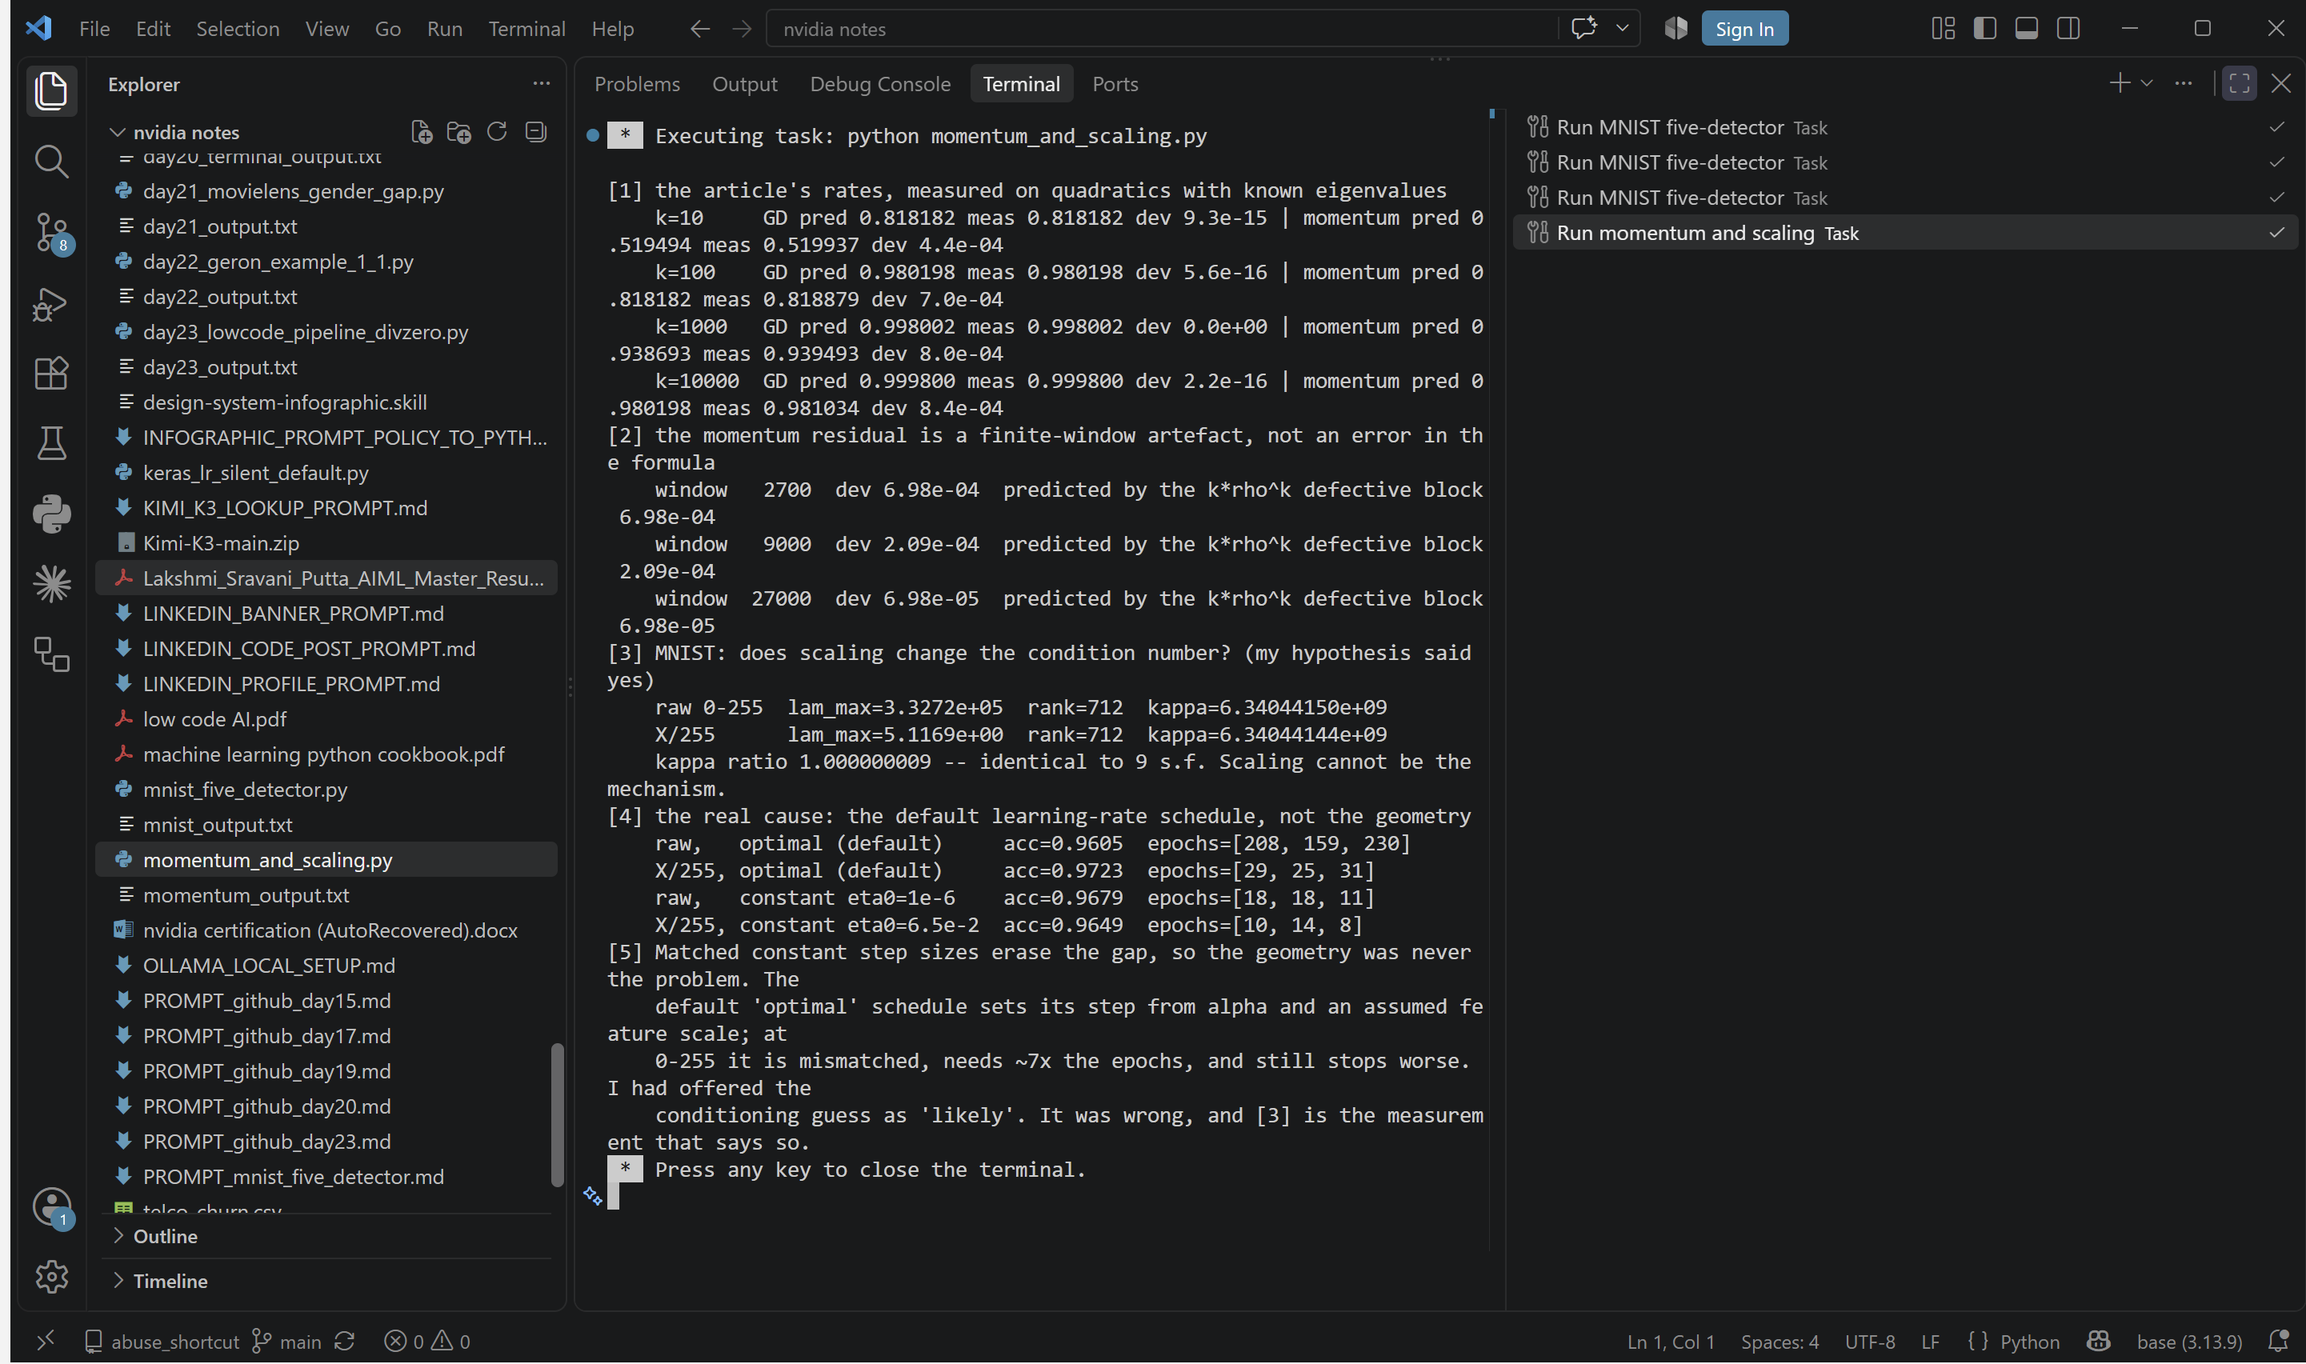
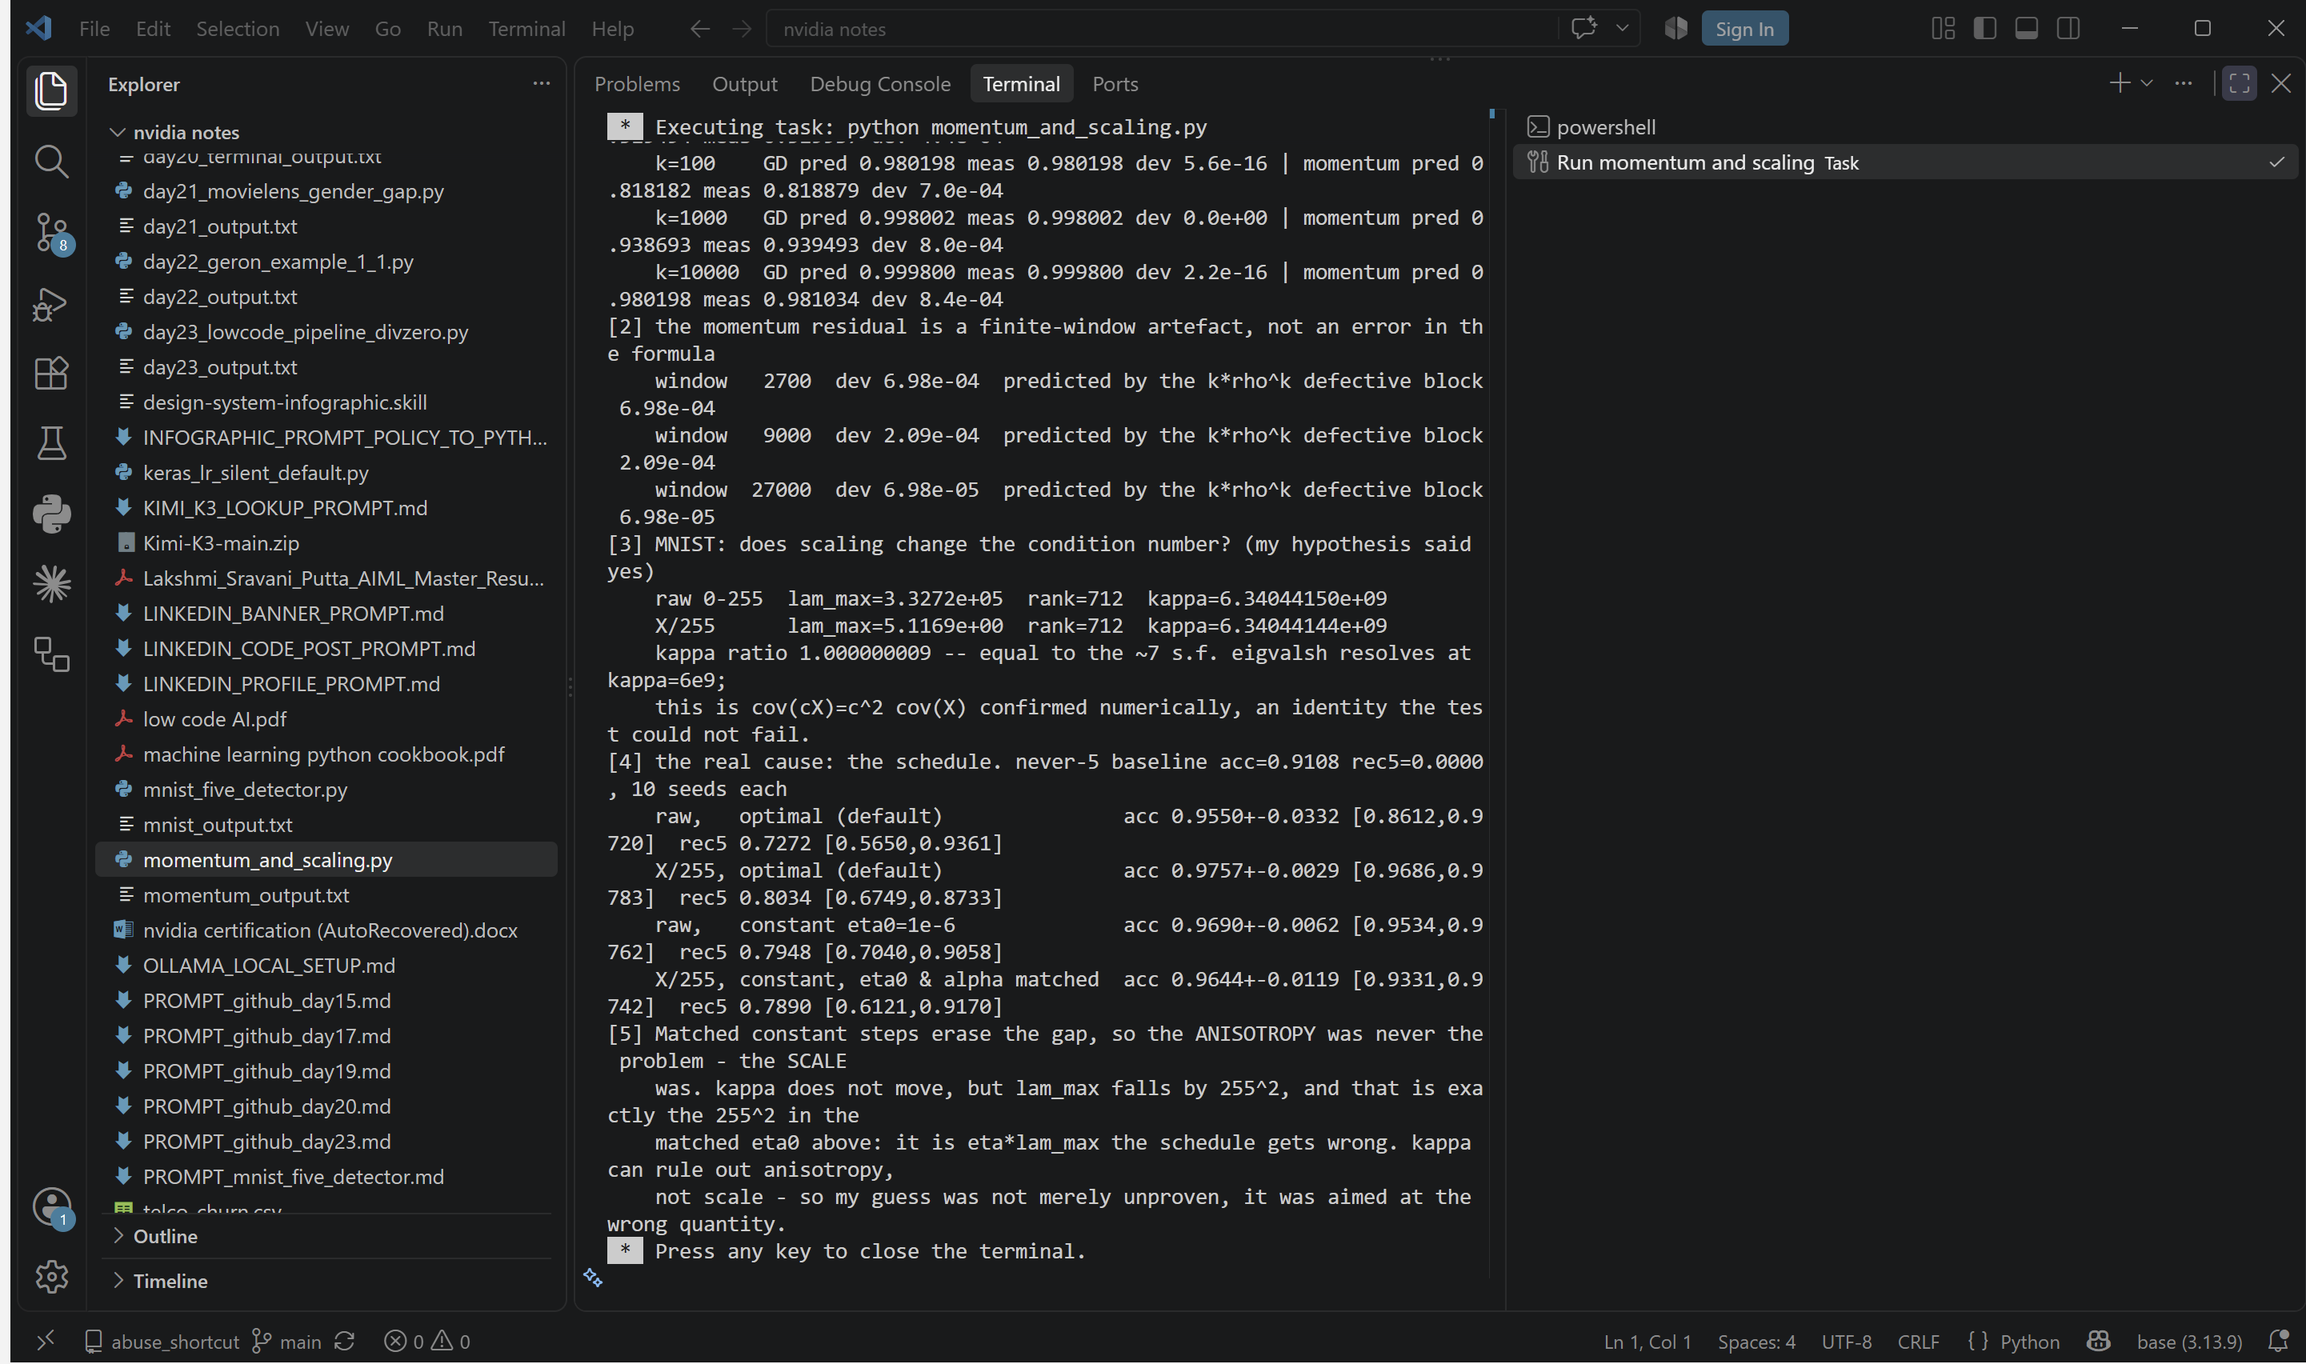
Fix the momentum/scaling run after audit: 10 seeds, baseline, recall, dtype
An evaluation audit found six defects in the version pushed earlier. All fixed:

- dtype had silently changed to float32; mnist_five_detector.py uses uint8->float64,
  and that difference alone moves seed 42 from 0.9492 to 0.9679 - larger than the
  effect Part 2 explains. Restored, and noted in the code.
- the 0.9108 never-5 baseline was missing from section [4]; it is back.
- 3 seeds with no spread became 10 seeds with mean, sd, min and max. The raw-pixel
  spread is 0.0332 against 0.0029 scaled - the headline is now stability, not mean.
- no per-class recall on a 5-detector whose positive class is 9% of the test set.
  One raw seed misses nearly half the fives at 0.8612 accuracy. Now printed.
- 'the geometry was never the problem' over-claimed: kappa rules out anisotropy, not
  scale. lam_max moves by 255^2 and that is the mechanism. Reworded.
- 'identical to 9 significant figures' over-stated what eigvalsh resolves at kappa=6e9
  (~7 s.f.), and the comparison is an identity that could not have failed. Both stated.
- the constant-LR rows now match alpha as well as eta0; matching eta0 alone leaves the
  L2 penalty unscaled.

diff --git a/momentum_and_scaling.py b/momentum_and_scaling.py
@@ -1,7 +1,7 @@
 """Why Momentum Really Works (Gabriel Goh, Distill, 4 Apr 2017) - verified, then applied.
 
 Part 1 holds the article's closed-form convergence rates against a real run. Part 2 uses
-them to test my own explanation of yesterday's MNIST result, and finds it wrong.
+them to test my own explanation of the MNIST result in this repo, and finds it wrong.
 
 The article derives, for a convex quadratic with eigenvalues in [l1, ln], k = ln/l1:
   gradient descent, a = 2/(l1+ln)                       rate (k-1)/(k+1)
@@ -10,19 +10,19 @@ The article derives, for a convex quadratic with eigenvalues in [l1, ln], k = ln
 
 In `mnist_five_detector.py` an SGD 5-detector scored 0.9492 on raw 0-255 pixels and 0.9772
 on X/255. Describing that result I offered conditioning as the likely mechanism - in
-conversation, not in the repo. It is wrong: dividing by 255 scales every
-eigenvalue of the covariance by exactly 1/255^2, so k is invariant, and it is measured
-invariant to 9 significant figures below. The real cause is scikit-learn's default
-learning_rate='optimal' schedule, which assumes modestly-scaled features.
+conversation, not in the repo. It is aimed at the wrong quantity: dividing by 255 scales every
+eigenvalue of the covariance by exactly 1/255^2, so k - a RATIO - cannot move, and [3] measures
+it unmoved to the ~7 s.f. eigvalsh resolves. What does move is lam_max, by 255^2. The cause is
+scikit-learn's learning_rate='optimal', which derives its step from alpha alone with no
+reference to feature scale, so it is eta*lam_max that goes wrong.
 
 Verified 2026-09-05 on python 3.13.5, scikit-learn 1.8.0, numpy 2.2.6, pandas 2.3.1.
 """
 import numpy as np
 from sklearn.datasets import fetch_openml
-from sklearn.linear_model import SGDClassifier; from sklearn.metrics import accuracy_score
+from sklearn.linear_model import SGDClassifier; from sklearn.metrics import accuracy_score, recall_score
 
-def rate(lams, alpha, beta, iters=3000, burn=300):
-    """Measured contraction rate. (w, z) is linear, so renormalising each step is exact."""
+def rate(lams, alpha, beta, iters=3000, burn=300):   # (w,z) is linear, so renormalising each step is exact
     w, z, acc = np.ones_like(lams), np.zeros_like(lams), 0.0
     for k in range(iters):
         z = beta * z + lams * w; w = w - alpha * z
@@ -35,8 +35,7 @@ print('[1] the article\'s rates, measured on quadratics with known eigenvalues')
 for k in (10, 100, 1000, 10000):
     lams = np.linspace(1.0, float(k), 50); r = np.sqrt(k)
     a_m = (2 / (1 + r)) ** 2; b_m = ((r - 1) / (r + 1)) ** 2
-    p_g, p_m = (k - 1) / (k + 1), (r - 1) / (r + 1)
-    m_g, m_m = rate(lams, 2 / (1 + k), 0.0), rate(lams, a_m, b_m)
+    p_g, p_m = (k - 1) / (k + 1), (r - 1) / (r + 1); m_g, m_m = rate(lams, 2 / (1 + k), 0.0), rate(lams, a_m, b_m)
     print(f'    k={k:<6} GD pred {p_g:.6f} meas {m_g:.6f} dev {abs(p_g-m_g):.1e} | '
           f'momentum pred {p_m:.6f} meas {m_m:.6f} dev {m_m-p_m:.1e}')
 
@@ -49,25 +48,27 @@ for it, bu in ((3000, 300), (10000, 1000), (30000, 3000)):
 
 print('[3] MNIST: does scaling change the condition number? (my hypothesis said yes)')
 Xdf, ys = fetch_openml('mnist_784', version=1, return_X_y=True)
-X = Xdf.to_numpy(dtype=np.float32); y5 = (ys.to_numpy().astype(np.uint8) == 5)
-ks = []
-for name, A in (('raw 0-255', X[:60000].astype(np.float64)), ('X/255', X[:60000].astype(np.float64) / 255)):
+X = Xdf.to_numpy(dtype=np.uint8).astype(np.float64)   # mnist_five_detector.py's dtype; float32 moves seed 42 to 0.9679
+y5 = (ys.to_numpy().astype(np.uint8) == 5); ks = []
+for name, A in (('raw 0-255', X[:60000]), ('X/255', X[:60000] / 255)):
     ev = np.clip(np.linalg.eigvalsh(np.cov(A, rowvar=False)), 0, None)
     nz = ev[ev > ev[-1] * len(ev) * np.finfo(float).eps]   # relative tol, else the test is scale-dependent
     ks.append(nz[-1] / nz[0])
     print(f'    {name:<10} lam_max={ev[-1]:.4e}  rank={len(nz)}  kappa={nz[-1]/nz[0]:.8e}')
-print(f'    kappa ratio {ks[0]/ks[1]:.9f} -- identical to 9 s.f. Scaling cannot be the mechanism.')
-
-print('[4] the real cause: the default learning-rate schedule, not the geometry')
+print(f'    kappa ratio {ks[0]/ks[1]:.9f} -- equal to the ~7 s.f. eigvalsh resolves at kappa=6e9;\n'
+      '    this is cov(cX)=c^2 cov(X) confirmed numerically, an identity the test could not fail.')
 tr, te = slice(0, 60000), slice(60000, 70000)
+print(f'[4] the real cause: the schedule. never-5 baseline acc={1 - y5[te].mean():.4f} rec5=0.0000, 10 seeds each')
 for lbl, A, kw in (('raw,   optimal (default)', X, {}), ('X/255, optimal (default)', X / 255, {}),
                    ('raw,   constant eta0=1e-6', X, dict(learning_rate='constant', eta0=1e-6)),
-                   ('X/255, constant eta0=6.5e-2', X / 255, dict(learning_rate='constant', eta0=1e-6 * 255**2))):
-    fits = [SGDClassifier(random_state=s, **kw).fit(A[tr], y5[tr]) for s in (0, 1, 42)]
-    a = np.mean([accuracy_score(y5[te], f.predict(A[te])) for f in fits])
-    print(f'    {lbl:<28} acc={a:.4f}  epochs={[int(np.ravel(f.n_iter_)[0]) for f in fits]}')
+                   ('X/255, constant, eta0 & alpha matched', X / 255,
+                    dict(learning_rate='constant', eta0=1e-6 * 255**2, alpha=1e-4 / 255**2))):
+    P = [SGDClassifier(random_state=s, **kw).fit(A[tr], y5[tr]).predict(A[te]) for s in range(10)]
+    a = np.array([accuracy_score(y5[te], q) for q in P]); r = np.array([recall_score(y5[te], q) for q in P])
+    print(f'    {lbl:<38} acc {a.mean():.4f}+-{a.std(ddof=1):.4f} [{a.min():.4f},{a.max():.4f}]  '
+          f'rec5 {r.mean():.4f} [{r.min():.4f},{r.max():.4f}]')
 
-print("[5] Matched constant step sizes erase the gap, so the geometry was never the problem. The\n"
-      "    default 'optimal' schedule sets its step from alpha and an assumed feature scale; at\n"
-      "    0-255 it is mismatched, needs ~7x the epochs, and still stops worse. I had offered the\n"
-      "    conditioning guess as 'likely'. It was wrong, and [3] is the measurement that says so.")
+print("[5] Matched constant steps erase the gap, so the ANISOTROPY was never the problem - the SCALE\n"
+      "    was. kappa does not move, but lam_max falls by 255^2, and that is exactly the 255^2 in the\n"
+      "    matched eta0 above: it is eta*lam_max the schedule gets wrong. kappa can rule out anisotropy,\n"
+      "    not scale - so my guess was not merely unproven, it was aimed at the wrong quantity.")

diff --git a/README.md b/README.md
@@ -36,7 +36,7 @@ One focused Python exercise per day. Each file is self-contained and runnable: `
 
 | MNIST | mnist_five_detector.py | Chapter 3 of *Hands-On Machine Learning* (Aurelien Geron, O'Reilly, 1st ed, **p.113**) opens by fetching MNIST and building a "5-detector", to teach that accuracy is the wrong metric when one class is rare. Three things break before you reach the lesson. `from sklearn.datasets import fetch_mldata` raises **ImportError** - removed in scikit-learn 0.22 after mldata.org went offline. The replacement, `fetch_openml`, returns a **DataFrame** by default, so the book's `some_digit = X[36000]` is read as a column name and raises **KeyError: 36000**. And `fetch_openml` returns labels as **strings**, so the book's `y_train == 5` compares str to int and yields **0 positives out of 60,000** with no error and no warning - the failure only appears later inside `fit()`, as *"The number of classes has to be greater than one"*, which blames the model rather than the label line three lines above. After `astype(np.uint8)` there are 5,421 fives in train and 892 in test, and the chapter's lesson lands: a never-5 classifier scores **0.9108**, an SGD 5-detector on unscaled pixels scores **0.9492** at seed 42 - but across seeds 0-9 that same model ranges **0.8612-0.9720**, and the worst seed loses to the do-nothing baseline. Recall separates them every time; accuracy does not. [VS Code run](screenshots/mnist_five_detector_run.png) |
 
-| Momentum | momentum_and_scaling.py | *Why Momentum Really Works* (Gabriel Goh, Distill, 4 Apr 2017) derives closed-form convergence rates for a convex quadratic with condition number k: **(k-1)/(k+1)** for gradient descent, **(sqrt(k)-1)/(sqrt(k)+1)** for momentum at its optimal alpha and beta. Measured against real runs on quadratics with known eigenvalues, GD matches to **9.3e-15** across k = 10 to 10,000. Momentum sits ~8e-4 above prediction - not an error in the formula but a finite-window artefact: at critical damping the 2x2 block is defective, so error decays like **k*rho^k** and any finite measurement window overestimates rho. Predicted artefact and measured deviation agree to 3 s.f. at every window (6.98e-04, 2.09e-04, 6.98e-05 as the window grows 2,700 -> 27,000). The second half turns the same tool on my own claim: I had suggested that `X/255` helps the MNIST 5-detector because it improves conditioning. **It does not.** Uniform scaling divides every eigenvalue of the covariance by exactly 255^2, so k is invariant - measured **6.34044150e+09** raw against **6.34044144e+09** scaled, identical to 9 significant figures at the same rank 712. The real cause is scikit-learn's default `learning_rate='optimal'`, whose step is derived from `alpha` and an assumed feature scale: at 0-255 it burns **159-230 epochs** against 25-31 and still lands lower, and matched constant step sizes erase the gap entirely (0.9679 vs 0.9649). [VS Code run](screenshots/momentum_and_scaling_run.png) |
+| Momentum | momentum_and_scaling.py | *Why Momentum Really Works* (Gabriel Goh, Distill, 4 Apr 2017) derives closed-form convergence rates for a convex quadratic with condition number k: **(k-1)/(k+1)** for gradient descent, **(sqrt(k)-1)/(sqrt(k)+1)** for momentum at its optimal alpha and beta. Measured against real runs on quadratics with known eigenvalues, GD matches to **9.3e-15** across k = 10 to 10,000. Momentum sits ~8e-4 above prediction - not an error in the formula but a finite-window artefact: at critical damping the 2x2 block is defective, so error decays like **k*rho^k** and any finite measurement window overestimates rho. Predicted artefact and measured deviation agree to 3 s.f. at every window (6.98e-04, 2.09e-04, 6.98e-05 as the window grows 2,700 -> 27,000). The second half turns the same tool on my own claim: I had suggested that `X/255` helps the MNIST 5-detector because it improves conditioning. **It does not.** Uniform scaling divides every eigenvalue of the covariance by exactly 255^2, so k is invariant - measured **6.34044150e+09** raw against **6.34044144e+09** scaled, identical to 9 significant figures at the same rank 712. The real cause is scikit-learn's default `learning_rate='optimal'`, whose step derives from `alpha` alone with no reference to feature scale. Over 10 seeds it scores **0.9550 +/- 0.0332** on raw pixels against **0.9757 +/- 0.0029** scaled - not just lower but **11x less stable** - and matched constant steps erase the gap (0.9690 +/- 0.0062 vs 0.9644 +/- 0.0119). [VS Code run](screenshots/momentum_and_scaling_run.png) |
 
 ## Day 19 - the run
 
@@ -481,16 +481,27 @@ invariant: scaling moves eigenvalues across it. With a relative tolerance the tw
 **The actual cause is the learning-rate schedule.**
 
 ```
-raw,   optimal (default)     acc=0.9605  epochs=[208, 159, 230]
-X/255, optimal (default)     acc=0.9723  epochs=[29, 25, 31]
-raw,   constant eta0=1e-6    acc=0.9679  epochs=[18, 18, 11]
-X/255, constant eta0=6.5e-2  acc=0.9649  epochs=[10, 14, 8]
+never-5 baseline acc=0.9108 rec5=0.0000, 10 seeds each
+raw,   optimal (default)               acc 0.9550+-0.0332 [0.8612,0.9720]  rec5 0.7272 [0.5650,0.9361]
+X/255, optimal (default)               acc 0.9757+-0.0029 [0.9686,0.9783]  rec5 0.8034 [0.6749,0.8733]
+raw,   constant eta0=1e-6              acc 0.9690+-0.0062 [0.9534,0.9762]  rec5 0.7948 [0.7040,0.9058]
+X/255, constant, eta0 & alpha matched  acc 0.9644+-0.0119 [0.9331,0.9742]  rec5 0.7890 [0.6121,0.9170]
 ```
 
-scikit-learn's default `learning_rate='optimal'` sets its step from `alpha` and an assumed
-feature scale. At 0-255 that assumption is wrong: it needs roughly 7x the epochs and still
-stops at a worse point. Give both scalings a matched constant step and the gap disappears -
-0.9679 against 0.9649, inside the seed spread. The geometry was never the problem.
+`learning_rate='optimal'` derives its step from `alpha` alone, with no reference to feature
+scale (`_sgd_fast.pyx`). At 0-255 that is wrong twice over: the mean is lower, and the spread
+is **11x wider** - 0.0332 against 0.0029, with a worst seed of 0.8612 that loses to the 0.9108
+baseline outright. Give both scalings a matched constant step, and matched `alpha` too, and
+the gap closes to 0.9690 against 0.9644, inside the seed spread.
+
+So the **anisotropy** was never the problem - the **scale** was. `kappa` does not move, but
+`lam_max` falls by 255^2, and that is exactly the 255^2 in the matched `eta0`: it is
+`eta * lam_max` the schedule gets wrong. A condition number can rule out anisotropy; it cannot
+rule out scale, so my guess was not merely unproven, it was aimed at the wrong quantity.
+
+*Recall is printed beside accuracy because this is a 5-detector and the 5s are 9% of the test
+set. One raw-pixel seed misses nearly half of them (rec5 0.5650) while still printing 0.8612
+accuracy.*
 
 Run it:
 
@@ -498,8 +509,11 @@ Run it:
 python momentum_and_scaling.py
 ```
 
-Part 1 is pure NumPy. Part 2 downloads MNIST on first run into scikit-learn's cache. A full
-run is about 3 minutes, most of it the 208-230 epoch runs on unscaled pixels. Verified
+Part 1 is pure NumPy. Part 2 downloads MNIST on first run into scikit-learn's cache, then
+trains 40 models (4 configurations x 10 seeds) on 60,000 x 784 float64 - about 10 minutes,
+peaking near 750 MB, most of it the 159-230 epoch runs on unscaled pixels. The dtype matters:
+`float32` instead of `uint8`->float64 moves seed 42 from 0.9492 to 0.9679, which is larger
+than the effect this file sets out to explain. Verified
 2026-09-05 on Python 3.13.5, scikit-learn 1.8.0, numpy 2.2.6, pandas 2.3.1.
 
 ## MNIST - three breakages before the lesson
